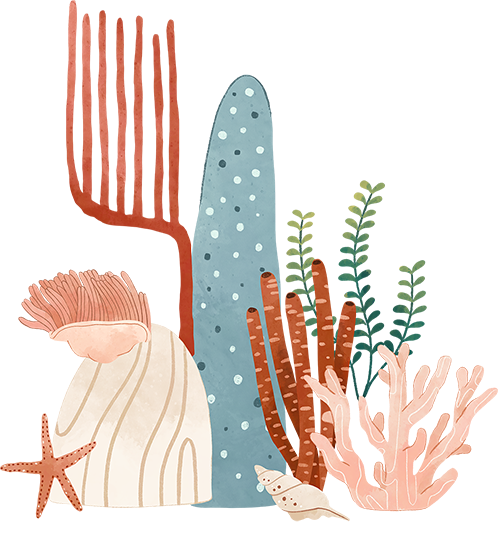
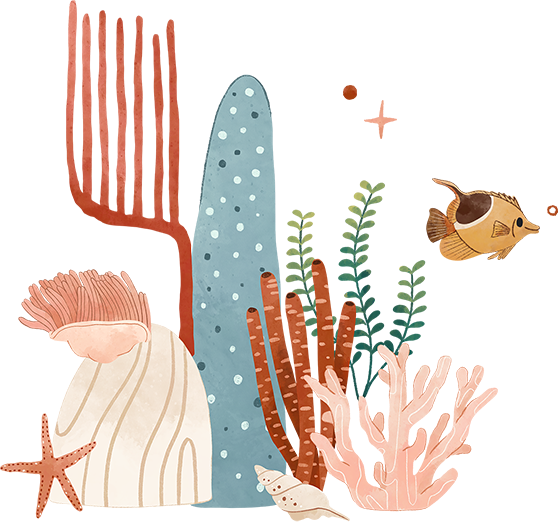
added and styles skills section

diff --git a/index.html b/index.html
@@ -10,6 +10,8 @@
     <link rel="preconnect" href="https://fonts.googleapis.com">
     <link rel="preconnect" href="https://fonts.gstatic.com" crossorigin>
     <link href="https://fonts.googleapis.com/css2?family=Nunito:wght@400;900&family=Pacifico&display=swap" rel="stylesheet">
+    <!--Font Awesome-->
+    <script src="https://kit.fontawesome.com/c22b61aa01.js" crossorigin="anonymous"></script>
 </head>
 <body>
     <a href="#mainContent" class="skipLink">Skip to the main content.</a>
@@ -33,20 +35,60 @@
         <div class="wrapper">
             <h1>Terri Yiu<span>Web Developer</span></h1>
         </div>
-        <div class="shark">
-            <img src="./assets/Shark.png" alt="swimming shark">
+
+        <!--Background Image Div-->
+        <div>
+            <div class="shark backgroundImg"></div>
+            <div class="coral backgroundImg"></div>
         </div>
     </header>
    
    <main>
     <article class="about">
         <div class="wrapper">
-            <img src="" alt="profile picture">
+            <img class="profileImg" src="/assets/profilepic.jpg" alt="profile picture">
             <h2>About Me</h2>
             <p>Lorem ipsum dolor sit, amet consectetur adipisicing elit. Itaque sapiente reiciendis velit quam inventore tempore ea voluptatum harum temporibus non.</p>
         </div>
     </article>
-    <section class="skills"></section>
+    <section class="skills">
+        <div class="wrapper">
+            <h2>Skills</h2>
+           <div class = "skillsList"> 
+                <ul>
+                    <li>
+                        <i class="fa-brands fa-html5"></i>
+                        <h4>HTML</h4>
+                    </li>
+                    <li>
+                        <i class="fa-brands fa-css3-alt"></i>
+                        <h4>CSS</h4>
+                    </li>
+                    <li>
+                        <i class="fa-brands fa-sass"></i>
+                        <h4>SaSS</h4>
+                    </li>
+                    <li>
+                        <i class="fa-brands fa-square-js"></i>
+                        <h4>Javascript</h4>
+                    </li>
+                    <li>
+                        <i class="fa-brands fa-react"></i>
+                        <h4>React</h4>
+                    </li>
+                    <li>
+                        <i class="fa-brands fa-github"></i>
+                        <h4>Github/Git</h4>
+                    </li>
+                </ul>
+            </div>
+        </div>
+
+        <!--Background Image Div-->
+        <div>
+            <div class="fishes"></div>
+        </div>
+    </section>
     <section class="projects"></section>
    </main>
     

diff --git a/styles/styles.css b/styles/styles.css
@@ -245,10 +245,27 @@ html {
 h1,
 h2,
 h3,
-h4,
 a {
   font-family: "Pacifico", cursive;
   margin: 0;
+}
+
+h1 {
+  font-size: 40px;
+  font-size: 2rem;
+}
+
+h2 {
+  font-size: 30px;
+  font-size: 1.5rem;
+}
+
+h4 {
+  font-family: "Nunito", sans-serif;
+  font-weight: 400;
+  margin: 0;
+  font-size: 18px;
+  font-size: 0.9rem;
 }
 
 a {
@@ -266,6 +283,16 @@ a {
 
 body {
   background-color: #FBF7F6;
+}
+
+.backgroundImg {
+  background-size: contain;
+  background-repeat: no-repeat;
+}
+
+ul {
+  list-style: none;
+  padding-left: 0;
 }
 
 .navBar {
@@ -352,35 +379,104 @@ body {
 }
 
 header {
-  background-image: url(/assets/coral_1.png), url(/assets/navBar.png);
+  background-image: url(/assets/navBar.png);
   min-height: 60vh;
-  background-size: 50%, 100%;
+  background-size: 100%;
   background-repeat: no-repeat;
-  background-position-y: bottom, 80px;
+  background-position-y: 80px;
+  position: relative;
 }
 
 span {
   display: block;
   color: #DF8D6E;
+  margin-top: 20px;
 }
 
 h1 {
   text-align: center;
-  padding-top: 30%;
+  padding-top: 35%;
   color: #4E6D79;
 }
 
-.shark img {
-  width: 60%;
+.shark {
+  background-image: url(/assets/Shark.png);
+  height: 120px;
+  width: 200px;
   position: absolute;
   right: -100px;
-  bottom: 300px;
+  bottom: 0;
+}
+
+.coral {
+  background-image: url(/assets/coral_1.png);
+  height: 200px;
+  width: 400px;
+  position: absolute;
+  bottom: -90px;
+  left: -20px;
 }
 
 .about {
   background-image: url(/assets/aboutMe.png);
-  height: 300px;
+  height: 350px;
   background-size: cover;
   background-repeat: no-repeat;
   position: relative;
+  color: #FBF7F6;
+  background-position-x: -100px;
+}
+
+.about div {
+  text-align: center;
+  padding-top: 60px;
+}
+
+.about p {
+  padding: 0 10px;
+}
+
+.profileImg {
+  width: 65px;
+  height: 65px;
+  border-radius: 100%;
+  margin-bottom: 10px;
+}
+
+.skills {
+  text-align: center;
+}
+
+.skills h2 {
+  color: #DF8D6E;
+}
+
+.skillsList {
+  display: -webkit-box;
+  display: -ms-flexbox;
+  display: flex;
+  -webkit-box-pack: center;
+      -ms-flex-pack: center;
+          justify-content: center;
+}
+
+.skillsList ul {
+  display: -webkit-box;
+  display: -ms-flexbox;
+  display: flex;
+  -ms-flex-wrap: wrap;
+      flex-wrap: wrap;
+  width: 66.6666666667%;
+  -webkit-box-pack: center;
+      -ms-flex-pack: center;
+          justify-content: center;
+}
+
+.skillsList li {
+  margin: 20px 15px;
+}
+
+.fa-brands {
+  font-size: 50px;
+  color: #4E6D79;
 }

diff --git a/styles/sass/layout/_header.scss b/styles/sass/layout/_header.scss
@@ -1,31 +1,44 @@
 
 
 header {
-    background-image: url(/assets/coral_1.png), url(/assets/navBar.png);
+    background-image: url(/assets/navBar.png);
     min-height: 60vh;
-    background-size: 50%, 100%;
+    background-size: 100%;
     background-repeat: no-repeat;
-    background-position-y: bottom, 80px; 
+    background-position-y: 80px; 
+    position: relative;
     
 }
 
 
 span {
     display: block;
-    color: $primary
+    color: $primary;
+    margin-top: 20px;
 }
 
 h1 {
     text-align: center;
-    padding-top: 30%;
+    padding-top: 35%;
     color: $tertiary;
   
 }
 
-.shark img {
-    width: 60%;
+
+.shark {
+    background-image: url(/assets/Shark.png);
+    height: 120px;
+    width: 200px;
     position: absolute;
     right: -100px;
-    bottom: 300px;
-    
+    bottom: 0;
+}
+
+.coral {
+    background-image: url(/assets/coral_1.png);
+    height: 200px;
+    width: 400px;
+    position: absolute;
+    bottom: -90px;
+    left: -20px;
 }

diff --git a/styles/sass/layout/_main.scss b/styles/sass/layout/_main.scss
@@ -1,8 +1,60 @@
+// ABOUT ME
 .about {
     background-image: url(/assets/aboutMe.png);
-    height: 300px;
+    height: 350px;
     background-size:cover;
     background-repeat: no-repeat;
     position: relative;
+    color: $baseColor;
+    background-position-x: -100px;
    
+}
+
+.about div {
+    text-align: center;
+    padding-top: 60px;
+
+}
+
+.about p {
+    padding: 0 10px;
+}
+
+.profileImg {
+    width: 65px;
+    height: 65px;
+    border-radius: 100%;
+    margin-bottom: 10px;
+}
+
+// SKILLS
+
+.skills {
+    text-align: center;
+}
+
+.skills h2 {
+    color: $primary;
+}
+
+.skillsList {
+    display: flex;
+    justify-content: center;
+}
+
+.skillsList ul {
+    display: flex;
+    flex-wrap: wrap;
+    width: calc((100%/1.5));
+    justify-content: center;
+}
+
+.skillsList li {
+    margin: 20px 15px;
+}
+
+
+.fa-brands {
+    font-size: 50px;
+    color: $tertiary;
 }

diff --git a/styles/sass/base/_typography.scss b/styles/sass/base/_typography.scss
@@ -1,10 +1,24 @@
 h1,
 h2,
 h3,
-h4,
 a {
     font-family: $baseFont;
     margin: 0;
+}
+
+h1 {
+    @include fontSize(40)
+}
+
+h2 {
+    @include fontSize(30)
+}
+
+h4 {
+    font-family:  $secondaryFont;
+    font-weight: 400;
+    margin: 0;
+    @include fontSize(18);
 }
 
 a {
@@ -12,3 +26,4 @@ a {
     text-decoration: none;
     color: $baseColor;
 }
+

diff --git a/styles/sass/base/_base.scss b/styles/sass/base/_base.scss
@@ -9,3 +9,14 @@
 body {
     background-color: $baseColor;
 }
+
+.backgroundImg {
+    background-size: contain;
+    background-repeat: no-repeat;
+}
+
+ul {
+    list-style: none;
+    padding-left: 0;
+}
+
